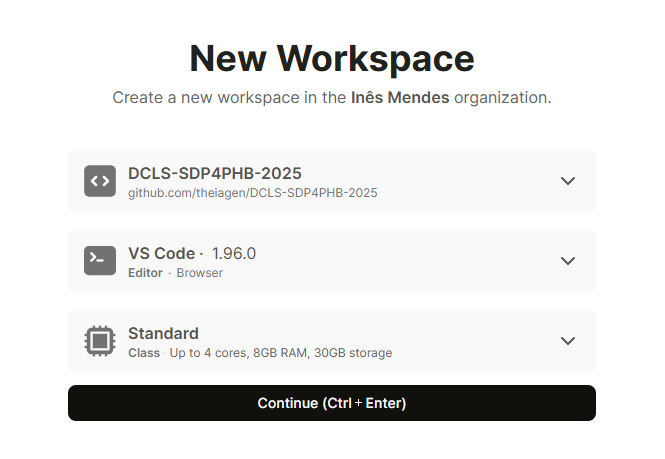
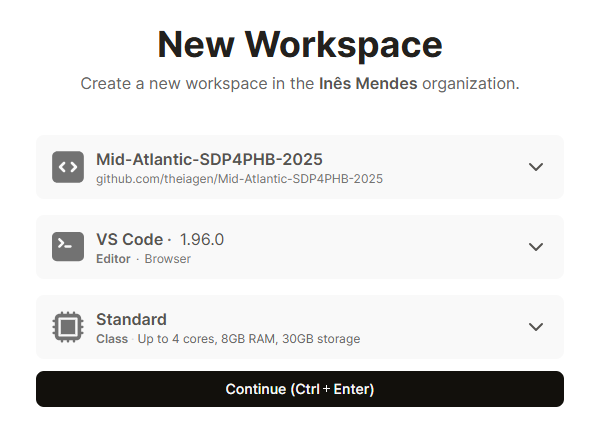
rename repo

diff --git a/README.md b/README.md
@@ -104,7 +104,7 @@ Once registered, navigate to your User Settings to enable write access to public
   <img src="./images/rm_05.png" width="800" class="center">
 </p>
 
-  - Set the repository to https://github.com/theiagen/DCLS-SDP4PHB-2025/
+  - Set the repository to https://github.com/theiagen/Mid-Atlantic-SDP4PHB-2025/
   - Select the default Editor and default Class, click "Continue"
 
 <p align="center">
